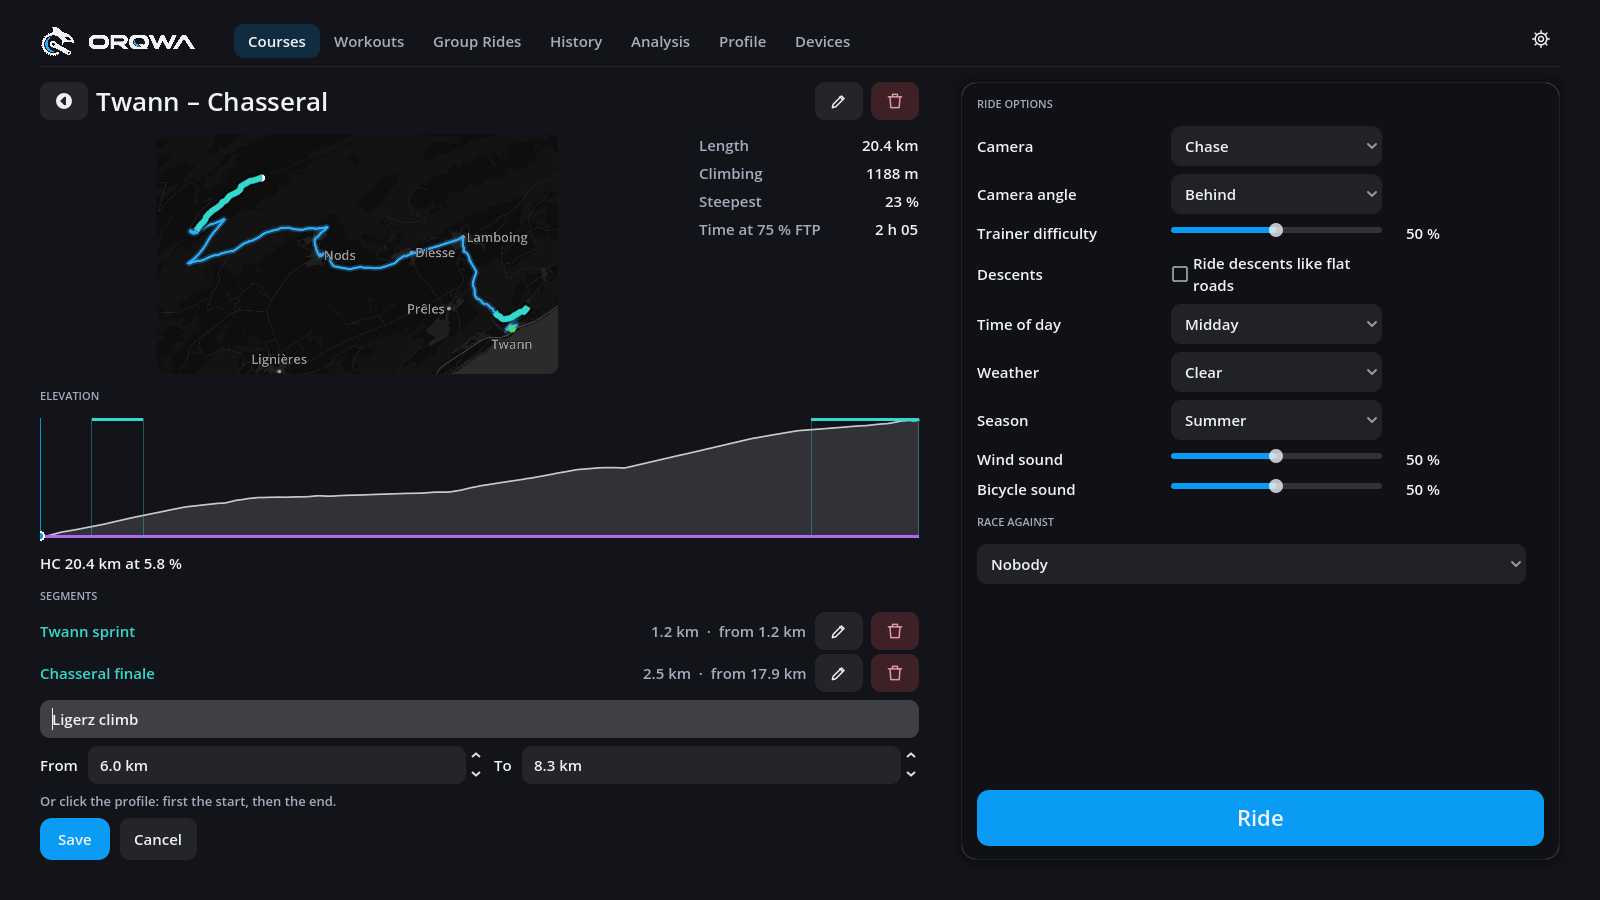
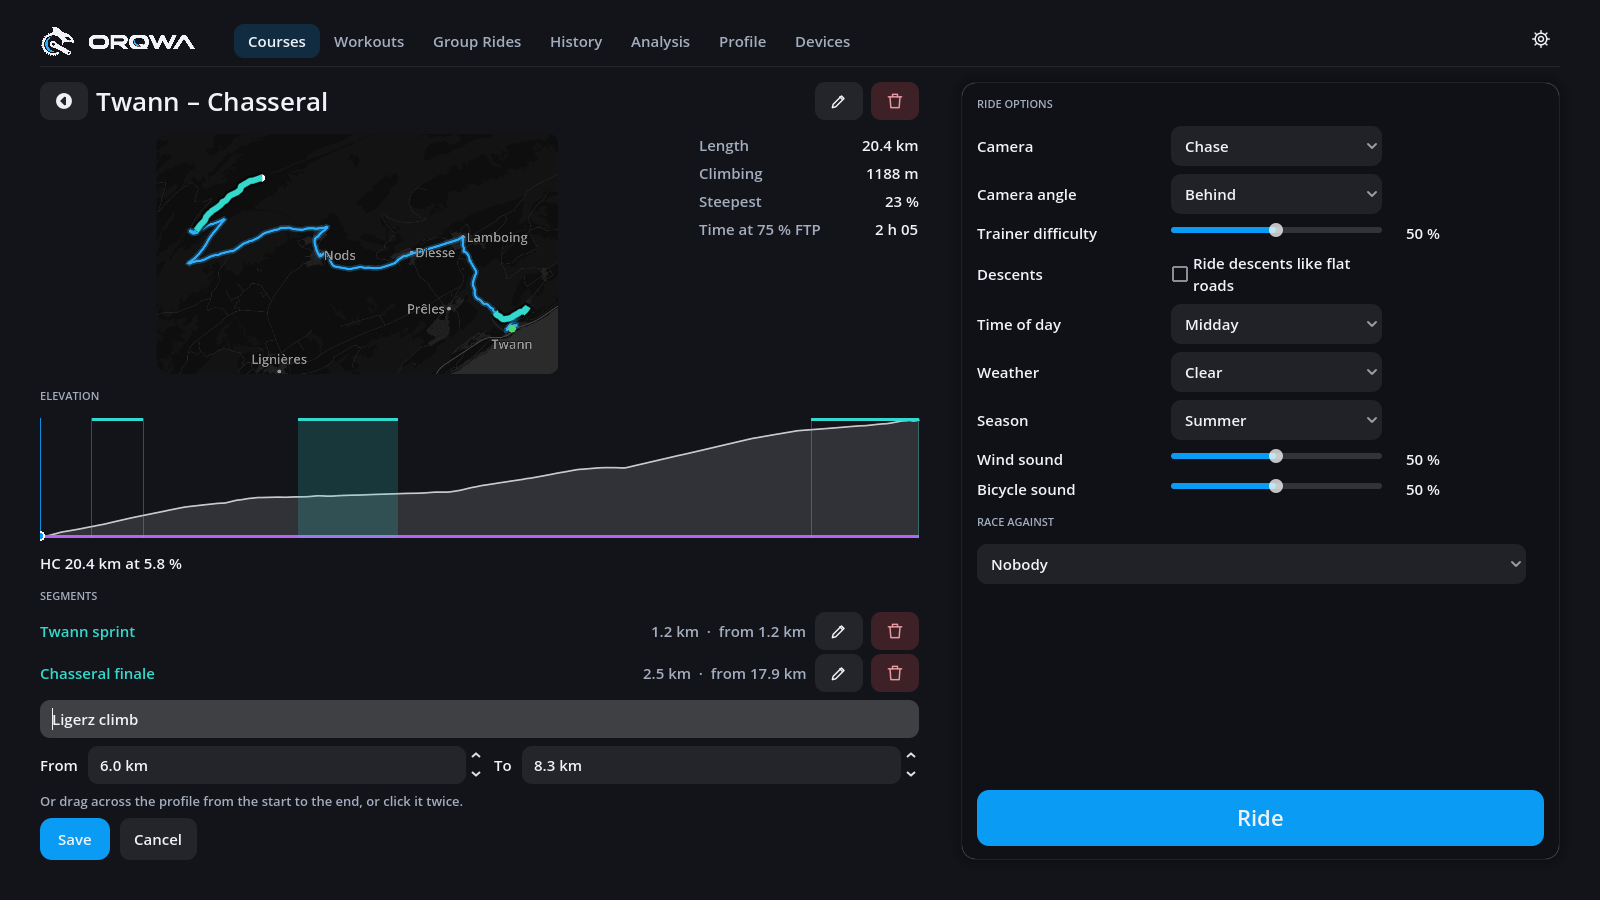
feat(segments): drag to mark a segment; its times on the quick summary
A drag across the course page's elevation profile marks a segment
from its start to its end, either way, with From and To following the
pointer; two clicks still work, now going out on release (R302).

Finishing a ride clears the moment cards, and at 20x a card's four
seconds cover about a kilometre, so a segment ending near the finish
lost its card. The quick summary now lists the ride's segment times,
a star on a new best. Simulated and assisted rides keep theirs too but
count for no best, and the summary labels a simulated ride.

Changed region(s): [[0.1875, 0.4667, 0.25, 0.6222], [0.0312, 0.8711, 0.2812, 0.9022]]

diff --git a/core/orqwa-app/src/segments.rs b/core/orqwa-app/src/segments.rs
@@ -67,11 +67,12 @@ fn probe(segment: &Segment) -> SegmentTime {
     }
 }
 
-/// The fastest time on `segment` among `records`, which are on its route.
+/// The fastest time on `segment` among `records`, which are on its route; simulated and
+/// assisted rides keep their times but set no records.
 pub(crate) fn best_time(records: &[&RideRecord], segment: &SegmentTime) -> Option<Duration> {
     records
         .iter()
-        .filter(|r| !r.assisted)
+        .filter(|r| !r.assisted && !r.simulated)
         .flat_map(|r| r.segments.iter())
         .filter(|other| other.same_segment(segment))
         .map(|other| other.elapsed)
@@ -165,17 +166,17 @@ pub(crate) fn heralded(active: &mut ActiveRide) -> Vec<Moment> {
     moments
 }
 
-/// The times of a finished ride on the segments it rode from their start; none unless the
-/// ride `counts` for records.
+/// The times of a finished ride on the segments it rode from their start. A simulated or
+/// assisted ride keeps them too, for its summary, though [`best_time`] passes over them: a
+/// segment told of as the ride finished would otherwise leave no trace.
 pub(crate) fn times(
     records: &[SegmentBest],
     samples: &[Sample],
     entry: Meters,
-    counts: bool,
 ) -> Vec<SegmentTime> {
     records
         .iter()
-        .filter(|s| counts && s.segment.start_m >= entry.0)
+        .filter(|s| s.segment.start_m >= entry.0)
         .filter_map(|s| {
             let (start, end) = in_ride(&s.segment, entry);
             effort(samples, start, end).map(|e| SegmentTime {
@@ -462,6 +463,67 @@ mod tests {
         // …and no earlier than the panel shows it, even sped up.
         assert_eq!(call_distance(kmh(40.0), 20.0), HERALD);
         assert!((call_distance(kmh(30.0), 2.0).0 - 250.0).abs() < 1e-9);
+    }
+
+    #[test]
+    fn a_ride_sped_up_twentyfold_still_shows_times_and_tells_its_segments() {
+        use orqwa_devices::fake::FakeRider;
+        use orqwa_domain::units::{Percent, Rpm, Watts};
+        use orqwa_physics::DescentMode;
+
+        let (dir, mut app) = loaded("segments-sped-up");
+        app.add_segment("Sprint", Meters(400.0), Meters(700.0))
+            .unwrap();
+        app.connect_trainer(crate::TrainerChoice::Fake(FakeRider {
+            power: Watts(400.0),
+            cadence: Rpm(90.0),
+            heart: None,
+        }))
+        .unwrap();
+        app.start_ride(Percent(50.0), DescentMode::Coast, &GhostChoice::None)
+            .unwrap();
+        let mut events = Vec::new();
+        while !events.iter().any(|e| matches!(e, AppEvent::Connected(_))) {
+            std::thread::sleep(Duration::from_millis(16));
+            events.extend(app.update(Duration::from_millis(16)));
+        }
+        assert_eq!(app.set_time_scale(20.0), 20.0);
+        // Frames as the app draws them; at 20× a frame covers several metres.
+        let mut missing = Vec::new();
+        for _ in 0..20_000 {
+            events.extend(app.update(Duration::from_millis(16)));
+            if events.iter().any(|e| matches!(e, AppEvent::RideFinished)) {
+                break;
+            }
+            let at = app.ride_state().unwrap().distance.0;
+            if (400.0..700.0).contains(&at) && app.current_segment().is_none() {
+                missing.push(at);
+            }
+        }
+        let told = |kind: fn(&Moment) -> bool| {
+            events
+                .iter()
+                .filter(|e| matches!(e, AppEvent::Moment(m) if kind(m)))
+                .count()
+        };
+        assert_eq!(
+            missing,
+            Vec::<f64>::new(),
+            "the panel's segment while on it"
+        );
+        assert_eq!(told(|m| matches!(m, Moment::SegmentAhead { .. })), 1);
+        assert_eq!(
+            told(|m| matches!(m, Moment::SegmentDone { .. })),
+            1,
+            "{events:?}"
+        );
+        app.finish_ride();
+        // Its summary still shows the time, as no record: the card may go with the finish.
+        let history = app.history();
+        assert_eq!(history[0].record.segments.len(), 1);
+        assert_eq!(history[0].segment_records, [false]);
+        assert_eq!(app.segments()[0].best, None);
+        std::fs::remove_dir_all(dir).unwrap();
     }
 
     #[test]

diff --git a/core/orqwa-gd/src/lib.rs b/core/orqwa-gd/src/lib.rs
@@ -1229,8 +1229,9 @@ impl OrqwaApp {
     /// The active rider's rides, newest first: `[{path, route, name, start_unix_s, elapsed_s,
     /// distance_m, elevation_gain_m, avg_speed_kmh, avg_power, max_power, normalized_power,
     /// intensity_factor, training_stress, work_kj, avg_cadence, avg_heart_rate,
-    /// max_heart_rate, route_time_s, route_record, ftp_estimate_w, climbs, power_curve,
-    /// power_records, uploads}]`; values the ride did not record are `null`, and
+    /// max_heart_rate, route_time_s, route_record, assisted, simulated, ftp_estimate_w, climbs,
+    /// segments, power_curve, power_records, uploads}]`; values the ride did not record are
+    /// `null`, and
     /// `ftp_estimate_w` for all but FTP tests (R22). `power_curve` holds `(duration s, W)`
     /// points of the ride's best power, `power_records` the durations in seconds over which it
     /// is the rider's best (R62). `uploads` has the page of the ride's activity by platform id
@@ -1265,6 +1266,7 @@ impl OrqwaApp {
                     "route_time_s" => &optional(entry.record.route_time.map(|t| t.as_secs_f64())),
                     "route_record" => entry.route_record,
                     "assisted" => entry.record.assisted,
+                    "simulated" => entry.record.simulated,
                     "ftp_estimate_w" => &optional(entry.record.ftp_estimate.map(|w| w.0)),
                     "climbs" => &climb_times(&entry),
                     "segments" => &segment_times(&entry),

diff --git a/core/orqwa-app/src/lib.rs b/core/orqwa-app/src/lib.rs
@@ -3934,7 +3934,7 @@ impl App {
                     .and_then(|route| effort(samples, Meters(0.0), route.length()))
                     .map(|e| e.elapsed),
                 climbs: climb_times(route, samples, entry, counts),
-                segments: segments::times(&active.records.segments, samples, entry, counts),
+                segments: segments::times(&active.records.segments, samples, entry),
                 name: None,
                 ftp_estimate: active.ride.ftp_estimate(),
                 rider_mass: Some(self.profile.profile.rider_mass),
@@ -4034,6 +4034,7 @@ impl App {
                         .iter()
                         .map(|segment| {
                             !record.assisted
+                                && !record.simulated
                                 && Some(segment.elapsed)
                                     == segments::best_time(&same_route, segment)
                         })

diff --git a/docs/REQUIREMENTS.md b/docs/REQUIREMENTS.md
@@ -834,3 +834,4 @@ residency even when generation finishes the whole course before riding.
 | R299 | Extends R282 (2026-11-24, [ADR 0042](adr/0042-world-files.md)): world files can use **extensions** for features later ORQWA versions add, as glTF does: an ORQWA that does not know an optional extension shows the world without it, and one that does not know a required extension asks for an update instead of opening the world. Adding an extension needs no new world format. |
 | R300 | Extends R27 and R124 (2026-11-25): riders mark **their own segments** of a course, for sprints and favourite stretches: start and end typed in or clicked on the elevation profile, or taken from a GPX track of the stretch (one exported from a segment on a cycling site, say), which must follow the course forward. Segments are the rider's own, per course, renamed, moved or removed on its page, and need no account or connection. Each is timed as climbs are: the ride shows the next segment from 500 m before it and, on it, the time so far, the distance left and how far ahead or behind the rider's best they are; finishing one tells a moment, a personal record when faster than ever. The history lists each ride's segment times. Simulated and assisted rides are not timed, and a segment entered past its start (a continued ride, a jump) is not timed on that ride. As R44/R89 rule out racing furniture, segments show only on the HUD and the profile, never as banners or arches in the world. A segment is known by its ends: renaming it keeps its times, moving it starts afresh. |
 | R301 | Extends R300 and R124 (2026-11-26): shortly before one of the rider's segments starts, a **card with the chime tells them it is coming**, by name and with the distance to its start in the rider's units, so they can shift and wind up. It comes about **15 seconds ahead at their current speed**, so as early before a sprint on a fast flat road as on a slow climb, but not before the segment shows on the HUD (500 m) and no later than 50 m before its start. It shows the distance rather than a countdown in seconds, which would be wrong as soon as the speed changes; the distance counts down while the card shows, and the card goes once the rider reaches the start. Each segment is told once a ride; none that will not be timed (entered past its start). It is a heads-up, not an achievement: in the segments' colour, without the burst. |
+| R302 | Amends R300 (2026-11-26): a segment is also marked by **dragging across the elevation profile** from its start to its end, either way, with its ends following the pointer; two clicks still work. A ride's **quick summary lists its segment times**, a ★ on a new best, as a card told at the finish goes with the ride screen. Simulated and assisted rides are timed as well and keep their times, but set no records and count for no best; the summary says so of a simulated ride. |

diff --git a/docs/PLAN.md b/docs/PLAN.md
@@ -253,6 +253,8 @@ Built in rideable steps:
     `SCREENSHOT_SEGMENTS_ONLY=1 scripts/screenshots.sh` renders them all
   - [x] A card with the chime about 15 s before a segment starts, at the rider's speed and
     between 500 m and 50 m ahead, showing the distance (R301)
+  - [x] Segments marked by dragging across the profile; the quick summary lists the ride's
+    segment times, which simulated and assisted rides keep without setting records (R302)
 - [x] Ghosts & pacers: own best, power / W/kg pacers, recorded GPX/FIT activities (R20)
 - [x] Audio (R26, R114): music app control, original video sound (Phase 5), and continuous
   ambient riding sound (#259, ADR 0029): CC0 wind and bicycle textures, irregular gusts and
